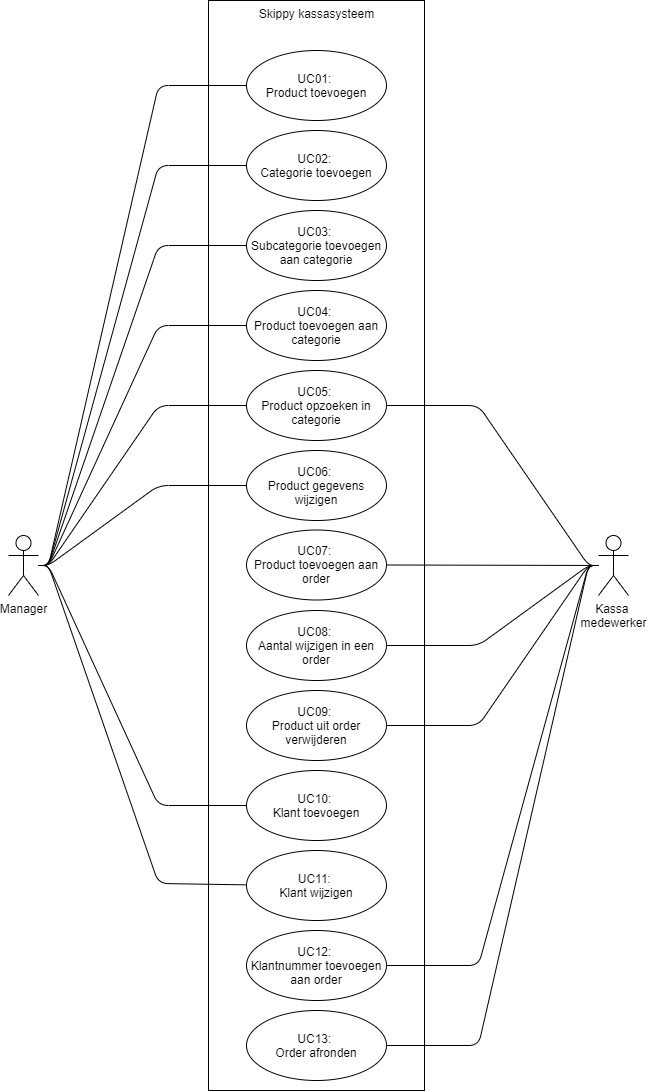
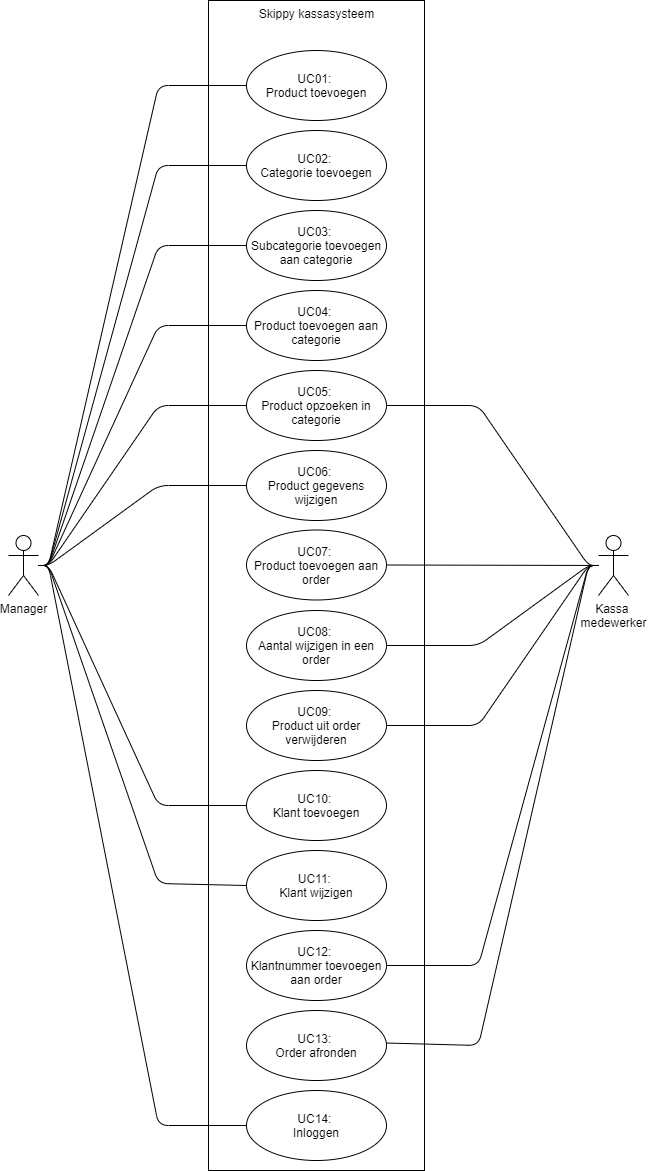
Testcases added

diff --git a/README.md b/README.md
@@ -47,11 +47,15 @@ Ingedeeld met MoSCoW.
      - **B-09.1** Een klant heeft een Klantnummer, Naam en factuur adres.
      - **B-09.2** Alle gegevens zijn verplicht om in te vullen.
  - **FR-10** De Manager moet een overzicht kunnen inzien van alle verkochte producten **C**
+ - **FR-11** De Manager moet kunnen inloggen en manager rechten krijgen **M**
  - **K-ALG.01** Bij onjuiste invoer moet een duidelijke foutmelding getoond worden.
+ - **K-ALG.02** Wanneer de Manager niet ingelogd is zullen opties die alleen voor de manager bedoeld zijn niet zichtbaar zijn.
 
 ### UI Schetsen
 ![UI Schetsen](/Diagrams/img/UI_Schetsen.png)
 ### Use cases
+Algemene uitzondering: Wanneer als actor Manager staat vastgesteld, kan de Use case alleen worden uitgevoergd wanneer als manager ingelogd is. (FR-11)
+
 |     | UC01 |
 | --- | --- |
 | Naam | Product toevoegen |
@@ -68,8 +72,8 @@ Ingedeeld met MoSCoW.
 | Samenvatting | Een nieuwe categorie wordt toegevoegd aan het systeem |
 | Actors | Manager |
 | Aannamen | Geen |
-| Omschrijving | 1. De actor navigeert naar /Categories/create. <br> 2. Het systeem toont een pagina met alle input velden die bij een nieuwe categorie horen. <br> 3. De actor vult de gegevens in voor de nieuwe categorie en klikt op 'toevoegen' <br> 4. Het systeem controleert de gegevens en voegt de categorie toe (1) |
-| Uitzonderingen | 1. Niet alle verplichte velden zijn ingevuld. Toon een melding en ga terug naar stap 2. (B-03.2) |
+| Omschrijving | 1. De actor navigeert naar /Categories/create. <br> 2. Het systeem toont een pagina met alle input velden die bij een nieuwe categorie horen. (B-04.1) <br> 3. De actor vult de gegevens in voor de nieuwe categorie en klikt op 'toevoegen' <br> 4. Het systeem controleert de gegevens en voegt de categorie toe (1) |
+| Uitzonderingen | 1. Niet alle verplichte velden zijn ingevuld. Toon een melding en ga terug naar stap 2. (B-04.2) |
 | Resultaat | Een categorie is toegevoegd aan het systeem |
 
 |     | UC03 |
@@ -108,7 +112,7 @@ Ingedeeld met MoSCoW.
 | Samenvatting | Een opgezocht product word gewijzigd. |
 | Actors | Manager |
 | Aannamen | 1. Het systeem heeft minstens 1 product. <br> 2. De detail pagina van het product is geopend. |
-| Omschrijving | 1. De actor klikt op 'Product wijzigen' <br> 2. Het systeem toont een pagina met input velden die gewijzigd kunnen worden. <br> 3. De actor veranderd velden waar hij dat wil. en klikt op 'opslaan' <br> 4. Het systeem controleert de gegevens en slaat de wijzigingen op (1,2) |
+| Omschrijving | 1. De actor klikt op 'Product wijzigen' <br> 2. Het systeem toont een pagina met input velden die gewijzigd kunnen worden. (B-02.1) <br> 3. De actor veranderd velden waar hij dat wil. en klikt op 'opslaan' <br> 4. Het systeem controleert de gegevens en slaat de wijzigingen op (1,2) |
 | Uitzonderingen | 1. Niet alle verplichte velden zijn ingevuld. Toon een melding en ga terug naar stap 2. (B-02.2) <br> 2. Bij prijs wordt geen getal ingevoerd. Toon een melding en ga terug naar stap 2. (K-ALG.01) |
 | Resultaat | Een product is gewijzigd |
 
@@ -119,7 +123,7 @@ Ingedeeld met MoSCoW.
 | Actors | Kassa medewerker |
 | Aannamen | 1. Het systeem heeft minstens 1 product. <br> 2. De detail pagina van het product is geopend. |
 | Omschrijving | 1. De actor vult een gewenst getal in bij het 'aantal' input veld en klikt op 'Toevoegen' <br> 2. Het systeem voegt het huidige product x aantal toe aan de order (1,2,3) <br> 3. Het systeem berekend de totaalprijs van de order en laat deze zien |
-| Uitzonderingen | 1. Er is nog geen huidige order. Een order zonder klantnummer wordt aangemaakt. En het product wordt toegevoegd <br> 2. Het 'aantal' input veld is geen correct getal. Het systeem geeft een foutmelding en voegt het product niet toe aan de order. Ga terug naar stap 1. (K-ALG.01) <br> 3. Het product is al toegevoegd aan de order. Het systeem geeft een foutmelding en laat weten dat je het aantal op de order kunt wijzigen (K-ALG.01) |
+| Uitzonderingen | 1. Het 'aantal' input veld is geen (correct) getal. Het systeem geeft een foutmelding en voegt het product niet toe aan de order. Ga terug naar stap 1. (K-ALG.01) <br> 2. Het product is al toegevoegd aan de order. Het systeem geeft een foutmelding en laat weten dat je het aantal op de order kunt wijzigen (K-ALG.01) |
 | Resultaat | Een product met aantal is toegevoegd aan de order. |
 
 |     | UC08 |
@@ -148,7 +152,7 @@ Ingedeeld met MoSCoW.
 | Samenvatting | Je gaat nieuwe klant toevoegen aan het systeem |
 | Actors | Manager |
 | Aannamen | Geen |
-| Omschrijving | 1. De actor navigeert naar /Customers/create. <br> 2. Het systeem toont een pagina met alle input velden die bij een nieuwe klant horen. <br> 3. De actor vult de gegevens in voor de nieuwe klant en klikt op 'toevoegen' <br> 4. Het systeem controleert de gegevens en voegt de klant toe (1) |
+| Omschrijving | 1. De actor navigeert naar /Customers/create. <br> 2. Het systeem toont een pagina met alle input velden die bij een nieuwe klant horen. (B-09.1 ) <br> 3. De actor vult de gegevens in voor de nieuwe klant en klikt op 'toevoegen' <br> 4. Het systeem controleert de gegevens en voegt de klant toe (1) |
 | Uitzonderingen | 1. Niet alle verplichte velden zijn ingevuld. Toon een melding en ga terug naar stap 2. (B-09.2) |
 | Resultaat | Een klant is toegevoegd aan het systeem |
 
@@ -184,8 +188,65 @@ Ingedeeld met MoSCoW.
 | Uitzonderingen | 1. Er is geen klantnummer toegevoegd. De betaalstatus wordt 'betaald' Ga door naar stap 5.  |
 | Resultaat | De order is afgerond en gearchiveerd. |
 
+|     | UC14 |
+| --- | --- |
+| Naam | Inloggen |
+| Samenvatting | Om manager rechten te krijgen moet de gebruiker inloggen |
+| Actors | Manager |
+| Aannamen | 1. De manager weet het wachtwoord |
+| Omschrijving | 1. De actor navigeert naar het loginschrem, vult de gegevens in en klikt op inloggen. <br> 2. Het syteem controleert de gegevens en geeft bericht dat je manager rechten hebt. (1) |
+| Uitzonderingen | 1. De inloggegevens zijn niet juist ingevoerd. Geef een melding en ga terug naar stap 1. (K-ALG.01)  |
+| Resultaat | De manager is ingelogd en kan nu manager opdrachten gaan uitvoeren. |
+
 ### Use case diagram
 ![Use case diagram](/Diagrams/img/UseCaseDiagram.png)
+
+### Use case diagram
+| Test case | Use case(s) | Invoer | Verwacht uitvoer |
+| --- | --- | --- | --- |
+| TC01 | UC01 | naam: "legkorrel" <br> omschrijving: "stevige korrel" <br> Prijs: 10,20 <br> Gebruiker: Manager | Product toegevoegd door manager |
+| TC02 | UC01 | naam: "legkorrel" <br> omschrijving: "stevige korrel" <br> Prijs: 10,20 <br> Gebruiker: Kassamedewerker | Product toevoegen geweigerd als kassamedewerker |
+| TC03 | UC01 | naam: "" <br> omschrijving: "stevige korrel" <br> Prijs: 10,20 <br> Gebruiker: Manager | Product toevoegen geweigerd. foutmelding: niet alle verplichte velden zijn ingevuld |
+| TC04 | UC01 | naam: "legkorrel" <br> omschrijving: "" <br> Prijs: "tien euro en twintig cent" <br> Gebruiker: Manager | Product toevoegen geweigerd. foutmelding: vul een getal in bij prijs |
+| TC05 | UC02 | naam: "kip" <br> Gebruiker: Manager | Categorie toegevoegd door manager |
+| TC06 | UC02 | naam: "kip" <br> Gebruiker: Kassamedewerker | Categorie toevoegen geweigerd als kassamedewerker |
+| TC07 | UC02 | naam: "" <br> Gebruiker: Manager | Categorie toevoegen geweigerd. foutmelding: niet alle verplichte velden zijn ingevuld |
+| TC08 | UC03 | parent categorie: "kip (bevat 0 producten)"<br> child categorie: "kippenvoer" <br> Gebruiker: Manager | Subcategorie toegevoegd door manager |
+| TC09 | UC03 | parent categorie: "kip (bevat 0 producten)"<br> child categorie: "kippenvoer" <br> Gebruiker: kassamedewerker | Subcategorie toevoegen geweigerd als kassamedewerker |
+| TC10 | UC03 | parent categorie: "kip (bevat 2 producten)"<br> Gebruiker: Manager | Kan geen subcategorie selecteren |
+| TC11 | UC03 | parent categorie: "kip (bevat kippenvoer als subcategorie)" <br> child categorie: "kippenvoer" <br> Gebruiker: Manager | Kan kippenvoer niet selecteren |
+| TC12 | UC04 | Categorie: "kip (bevat 0 subcategorieën en 0 producten)" <br> Product: "legkorrel" <br> Gebruiker: Manager | Product toegevoegd aan categorie |
+| TC13 | UC04 | Categorie: "kip (bevat 0 subcategorieën en 0 producten)" <br> Product: "legkorrel" <br> Gebruiker: kassamedewerker |  Product toevoegen aan categorie geweigerd als kassamedewerker |
+| TC14 | UC04 | Categorie: "kip (bevat 1 subcategorie)" <br> Gebruiker: Manager | Kan geen product selecteren |
+| TC15 | UC04 | Categorie: "kip (bevat legkorrel als product)" <br> Product: "legkorrel" <br> Gebruiker: Manager | Kan legkorrel niet selecteren |
+| TC16 | UC05 | Categorie: "kip (bevat legkorrel als product)" <br> Product: "legkorrel" <br> Gebruiker: Manager | Product detailpagina wordt getoond |
+| TC17 | UC05 | Categorie: "kip (bevat legkorrel als product)" <br> Product: "legkorrel" <br> Gebruiker: Kassamedewerker | Product detailpagina wordt getoond |
+| TC18 | UC05 | Categorie: "kip (bevat subcategorie kippenvoer)" <br> Subcategorie: "kippenvoer (bevat product legkorrel)"<br> Product: "legkorrel" <br> Gebruiker: Kassamedewerker | Product detailpagina wordt getoond |
+| TC19 | UC06 | Product: "naam: "legkorrel" omschrijving: "stevige korrel" Prijs: 10,20" <br> Wijziging: "omschrijving: "extra stevige korrel" " <br> Gebruiker: Manager | Product gewijzigd door manager |
+| TC20 | UC06 | Product: "naam: "legkorrel" omschrijving: "stevige korrel" Prijs: 10,20" <br> Wijziging: "omschrijving: "extra stevige korrel" " <br> Gebruiker: kassamedewerker | Product weizigen geweigerd als kassamedewerker |
+| TC21 | UC06 | Product: "naam: "legkorrel" omschrijving: "stevige korrel" Prijs: 10,20" <br> Wijziging: "naam: "" " <br> Gebruiker: Manager | Product weizigen geweigerd. foutmelding: niet alle verplichte velden zijn ingevuld |
+| TC22 | UC06 | Product: "naam: "legkorrel" omschrijving: "stevige korrel" Prijs: 10,20" <br> Wijziging: "Prijs: "tien euro en twintig cent" " <br> Gebruiker: Manager | Product weizigen eweigerd. foutmelding: vul een getal in bij prijs |
+| TC23 | UC07 | Aantal: 1 <br> Gebruiker: Kassamedewerker | Geopend product toegevoegd aan order |
+| TC24 | UC07 | Aantal: "een" <br> Gebruiker: Kassamedewerker | Product toevoegen geweigerd. foutmelding: vul een getal in bij Aantal |
+| TC25 | UC07 | Aantal: "" <br> Gebruiker: Kassamedewerker | Product toevoegen geweigerd. foutmelding: vul een getal in bij Aantal |
+| TC26 | UC07 | Order: "bevat huidig product al" <br> Aantal: 1 <br> Gebruiker: Kassamedewerker | Product toevoegen geweigerd. foutmelding: Product bestaat al in order, weizig Aantal binnen order |
+| TC27 | UC08 | Aantal: 2 <br> Gebruiker: Kassamedewerker | Order gewijzigd |
+| TC28 | UC08 | Aantal: "twee" <br> Gebruiker: Kassamedewerker | Order wijzigen geweigerd. foutmelding: vul een getal in bij Aantal |
+| TC29 | UC08 | Aantal: "" <br> Gebruiker: Kassamedewerker | Order wijzigen geweigerd. foutmelding: vul een getal in bij Aantal |
+| TC30 | UC09 | Gebruiker: Kassamedewerker | Order gewijzigd |
+| TC31 | UC10 | Klantnummer: 12345 <br> naam: "Barrie Butsers" <br> Factuur adres: "Rachelsmolen 1, 5612 MA Eindhoven" <br> Gebruiker: Manager | Klant aangemaakt |
+| TC32 | UC10 | Klantnummer: 12345 <br> naam: "Barrie Butsers" <br> Factuur adres: "Rachelsmolen 1, 5612 MA Eindhoven" <br> Gebruiker: Kassamedewerker | Klant aanmaken geweigerd als kassamedewerker |
+| TC33 | UC10 | Klantnummer: 12345 <br> naam: "" <br> Factuur adres: "Rachelsmolen 1, 5612 MA Eindhoven" <br> Gebruiker: Manager | Klant aanmaken geweigerd. foutmelding: niet alle verplichte velden zijn ingevuld. |
+| TC34 | UC11 | Klant: "Klantnummer: 12345 naam: "Barrie Butsers" Factuur adres: "Rachelsmolen 1, 5612 MA Eindhoven" " <br> Wijziging: "naam: "Richard Batsbak" "  <br> Gebruiker: Manager | Klant gewijzigd |
+| TC35 | UC11 | Klant: "Klantnummer: 12345 naam: "Barrie Butsers" Factuur adres: "Rachelsmolen 1, 5612 MA Eindhoven" " <br> Wijziging: "naam: "Richard Batsbak" "  <br> Gebruiker: Kassamedewerker | Klant weizigen geweigerd als kassamedewerker |
+| TC36 | UC11 | Klant: "Klantnummer: 12345 naam: "Barrie Butsers" Factuur adres: "Rachelsmolen 1, 5612 MA Eindhoven" " <br> Wijziging: "naam: "" "  <br> Gebruiker: Manager | Klant weizigen geweigerd. foutmelding: niet alle verplichte velden zijn ingevuld |
+| TC37 | UC12 | Gebruiker: Kassamedewerker | Klantnummer toegevoegd |
+| TC38 | UC13 | Klantnummer: ""<br> Gebruiker: Kassamedewerker | Order afgerond, status: betaald |
+| TC39 | UC13 | Klantnummer: "12345" <br> betaalstatus: "betaald" <br> Gebruiker: Kassamedewerker | Order afgerond, status: betaald |
+| TC40 | UC13 | Klantnummer: "12345" <br> betaalstatus: "niet betaald" <br> Gebruiker: Kassamedewerker | Order afgerond, status: niet betaald |
+| TC41 | UC14 | Login: "correcte gegevens" | Gebruiker krijg manager status |
+| TC42 | UC14 | Login: "niet correcte gegevens" | Gebruiker krijg geen manager status |
+
 ## Ontwerp
 ### Conceptueel Model
 ![Conceptueel Model](/Diagrams/img/Conceptueel_Model.png)
